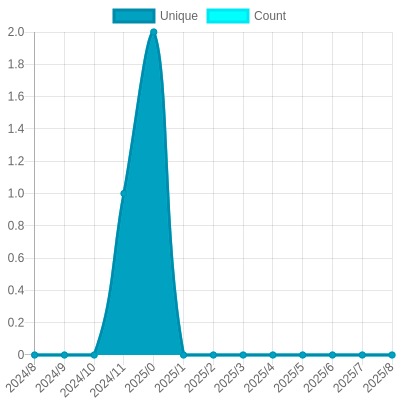
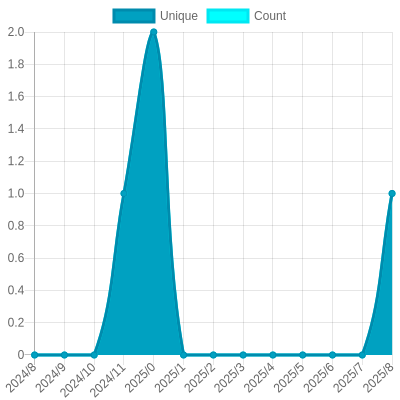
Update views

Changed region(s): [[0.9, 0.48, 0.99, 0.9]]

diff --git a/readme/115464782/year.md b/readme/115464782/year.md
@@ -23,10 +23,10 @@
 			<code>2024/9/1</code>
 		</td>
 		<td>
-			<code>0</code>
+			<code>1</code>
 		</td>
 		<td>
-			<code>0</code>
+			<code>1</code>
 		</td>
 	</tr>
 	<tr>
@@ -164,7 +164,7 @@
 </table>
 
 </details>
-<small><i>Last updated on 2024/9/19 12:09 PM UTC</i></small>
+<small><i>Last updated on 2024/9/19 6:07 PM UTC</i></small>
 
 ## ✂Copy and 📋 Paste
 ### SVG Badge

diff --git a/README.md b/README.md
@@ -149,7 +149,7 @@ The project created and maintained by [gayanvoice](https://github.com/gayanvoice
 	</tr>
 </table>
 
-<small><i>Last updated on 2024/9/19 12:10 PM UTC</i></small>
+<small><i>Last updated on 2024/9/19 6:08 PM UTC</i></small>
 
 ## ✂Copy and 📋 Paste
 ### Total Views Badge

diff --git a/readme/108577993/year.md b/readme/108577993/year.md
@@ -164,7 +164,7 @@
 </table>
 
 </details>
-<small><i>Last updated on 2024/9/19 12:09 PM UTC</i></small>
+<small><i>Last updated on 2024/9/19 6:07 PM UTC</i></small>
 
 ## ✂Copy and 📋 Paste
 ### SVG Badge

diff --git a/readme/159556378/year.md b/readme/159556378/year.md
@@ -164,7 +164,7 @@
 </table>
 
 </details>
-<small><i>Last updated on 2024/9/19 12:09 PM UTC</i></small>
+<small><i>Last updated on 2024/9/19 6:07 PM UTC</i></small>
 
 ## ✂Copy and 📋 Paste
 ### SVG Badge

diff --git a/readme/467696257/year.md b/readme/467696257/year.md
@@ -164,7 +164,7 @@
 </table>
 
 </details>
-<small><i>Last updated on 2024/9/19 12:09 PM UTC</i></small>
+<small><i>Last updated on 2024/9/19 6:07 PM UTC</i></small>
 
 ## ✂Copy and 📋 Paste
 ### SVG Badge

diff --git a/readme/624976823/year.md b/readme/624976823/year.md
@@ -164,7 +164,7 @@
 </table>
 
 </details>
-<small><i>Last updated on 2024/9/19 12:09 PM UTC</i></small>
+<small><i>Last updated on 2024/9/19 6:07 PM UTC</i></small>
 
 ## ✂Copy and 📋 Paste
 ### SVG Badge

diff --git a/readme/677157337/year.md b/readme/677157337/year.md
@@ -164,7 +164,7 @@
 </table>
 
 </details>
-<small><i>Last updated on 2024/9/19 12:09 PM UTC</i></small>
+<small><i>Last updated on 2024/9/19 6:07 PM UTC</i></small>
 
 ## ✂Copy and 📋 Paste
 ### SVG Badge

diff --git a/readme/7057564/year.md b/readme/7057564/year.md
@@ -164,7 +164,7 @@
 </table>
 
 </details>
-<small><i>Last updated on 2024/9/19 12:09 PM UTC</i></small>
+<small><i>Last updated on 2024/9/19 6:07 PM UTC</i></small>
 
 ## ✂Copy and 📋 Paste
 ### SVG Badge

diff --git a/readme/7059334/year.md b/readme/7059334/year.md
@@ -164,7 +164,7 @@
 </table>
 
 </details>
-<small><i>Last updated on 2024/9/19 12:09 PM UTC</i></small>
+<small><i>Last updated on 2024/9/19 6:07 PM UTC</i></small>
 
 ## ✂Copy and 📋 Paste
 ### SVG Badge
